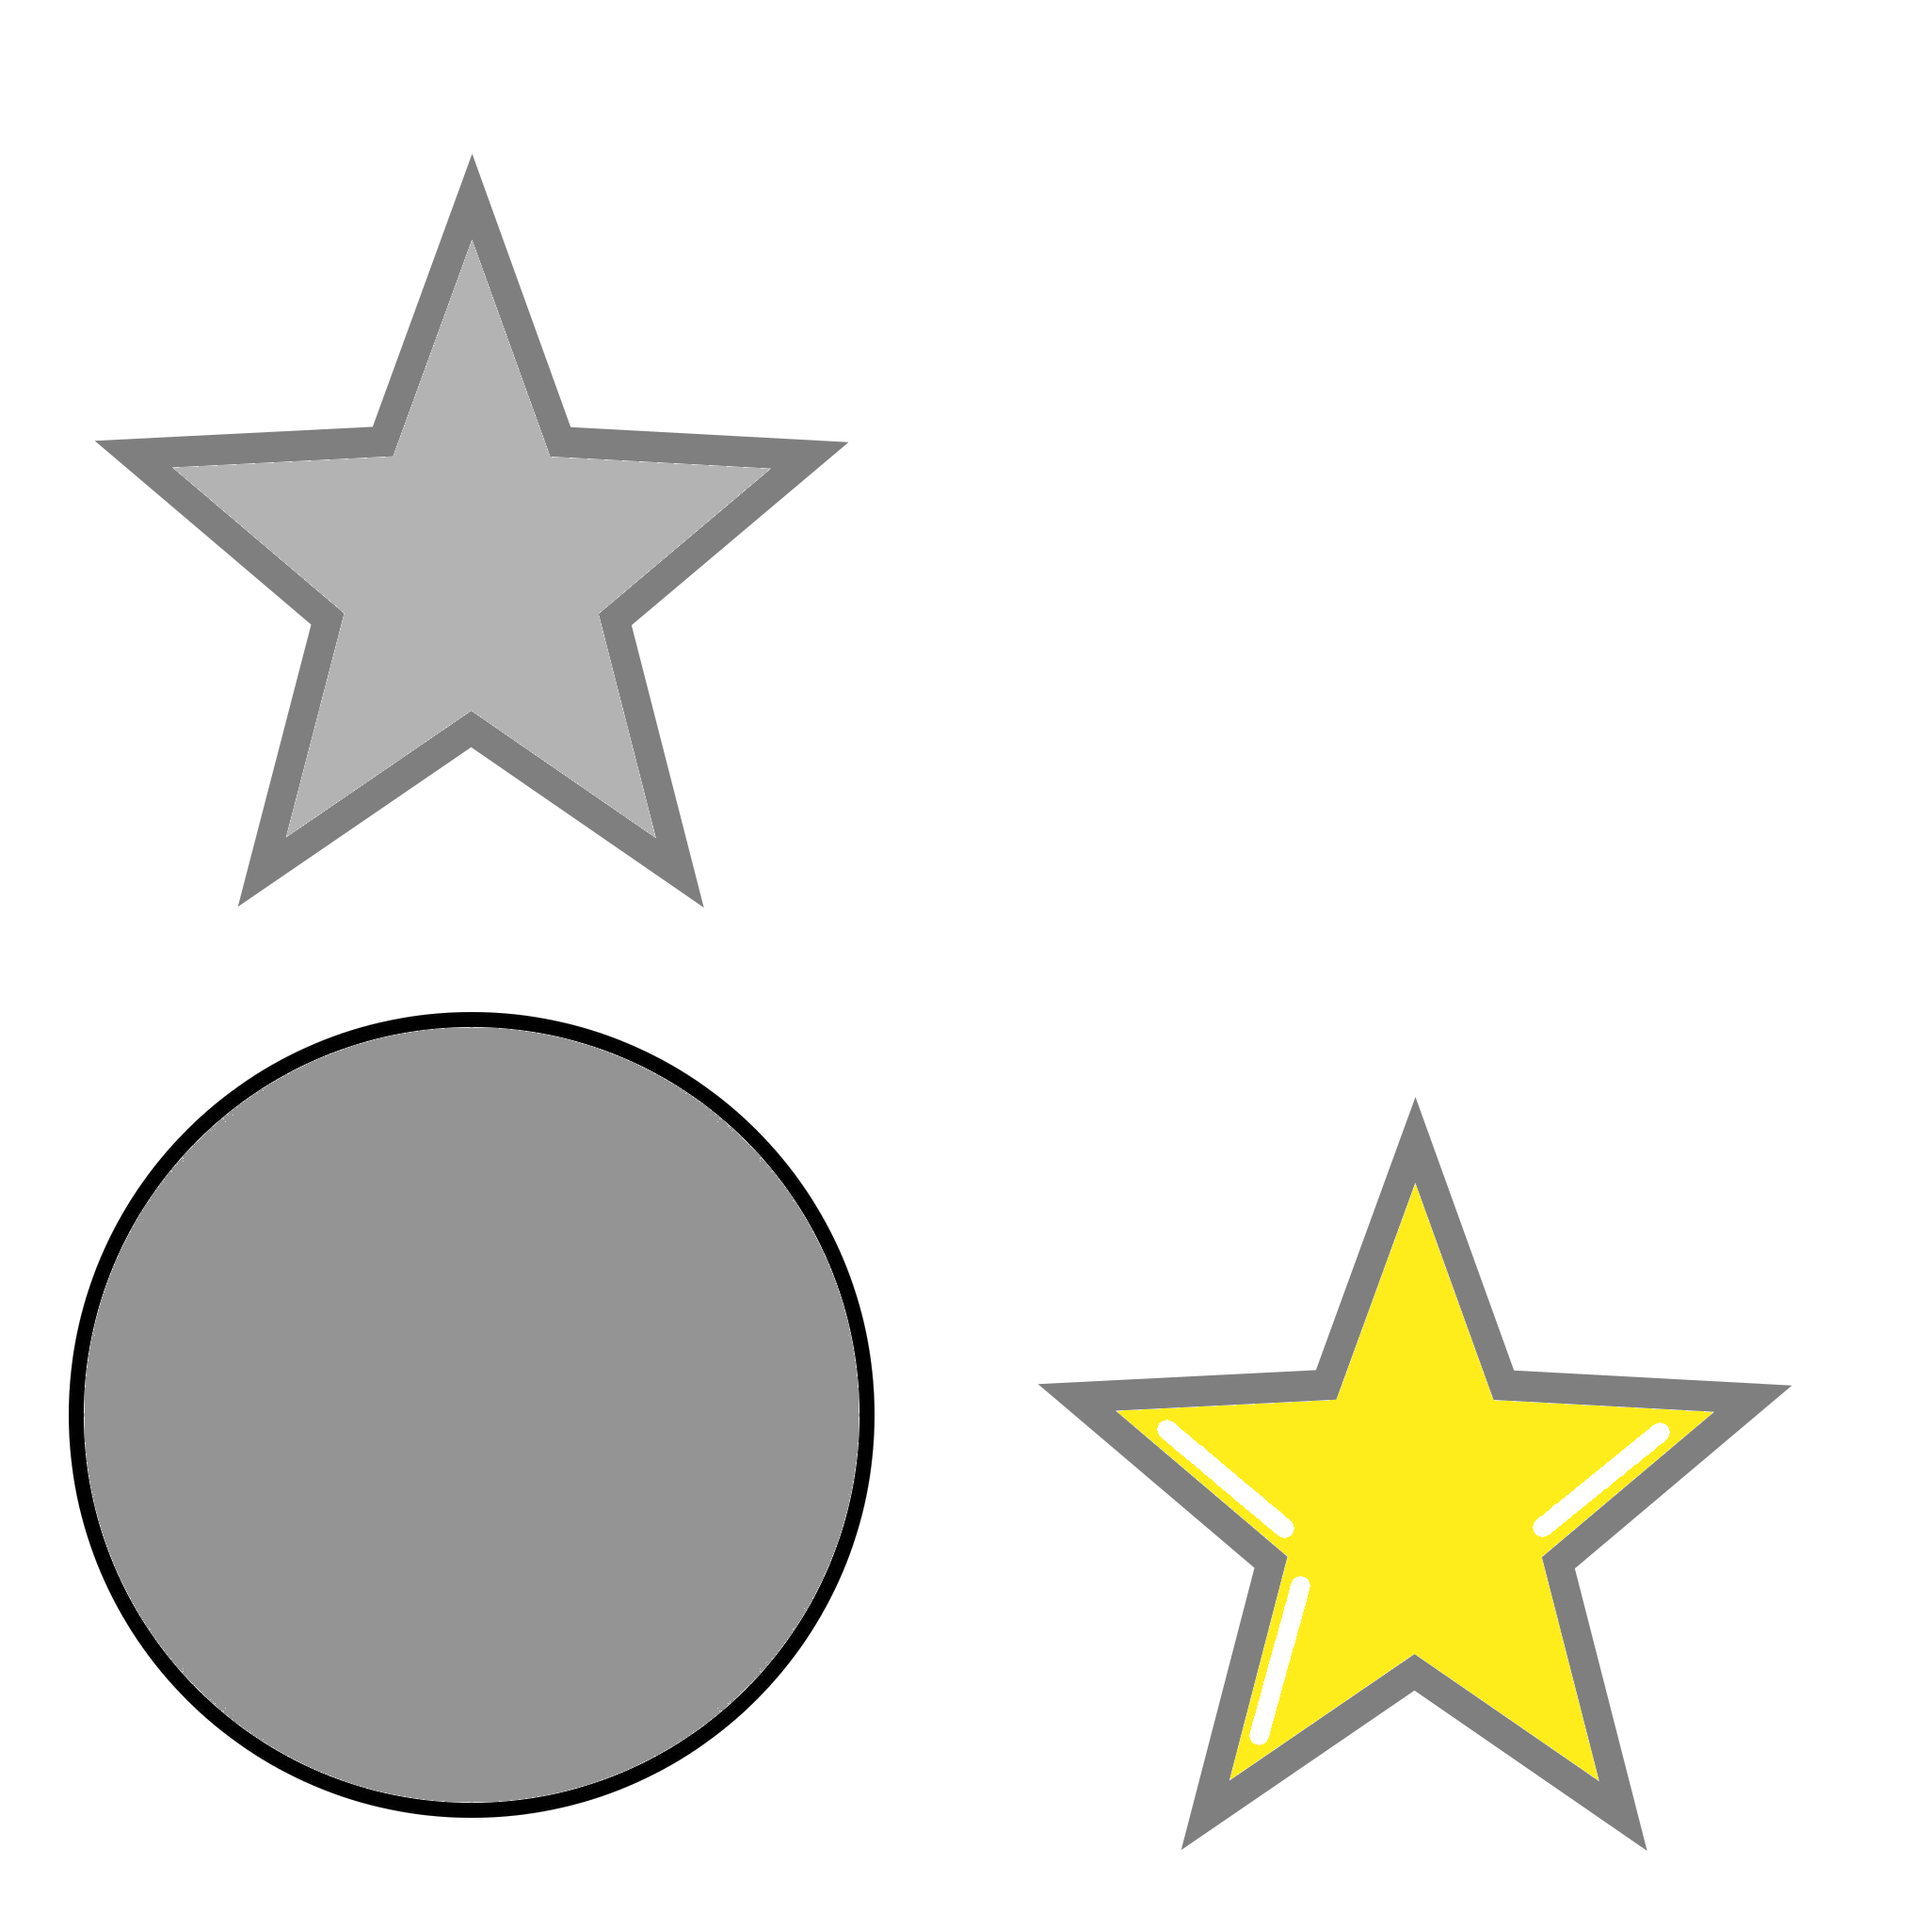
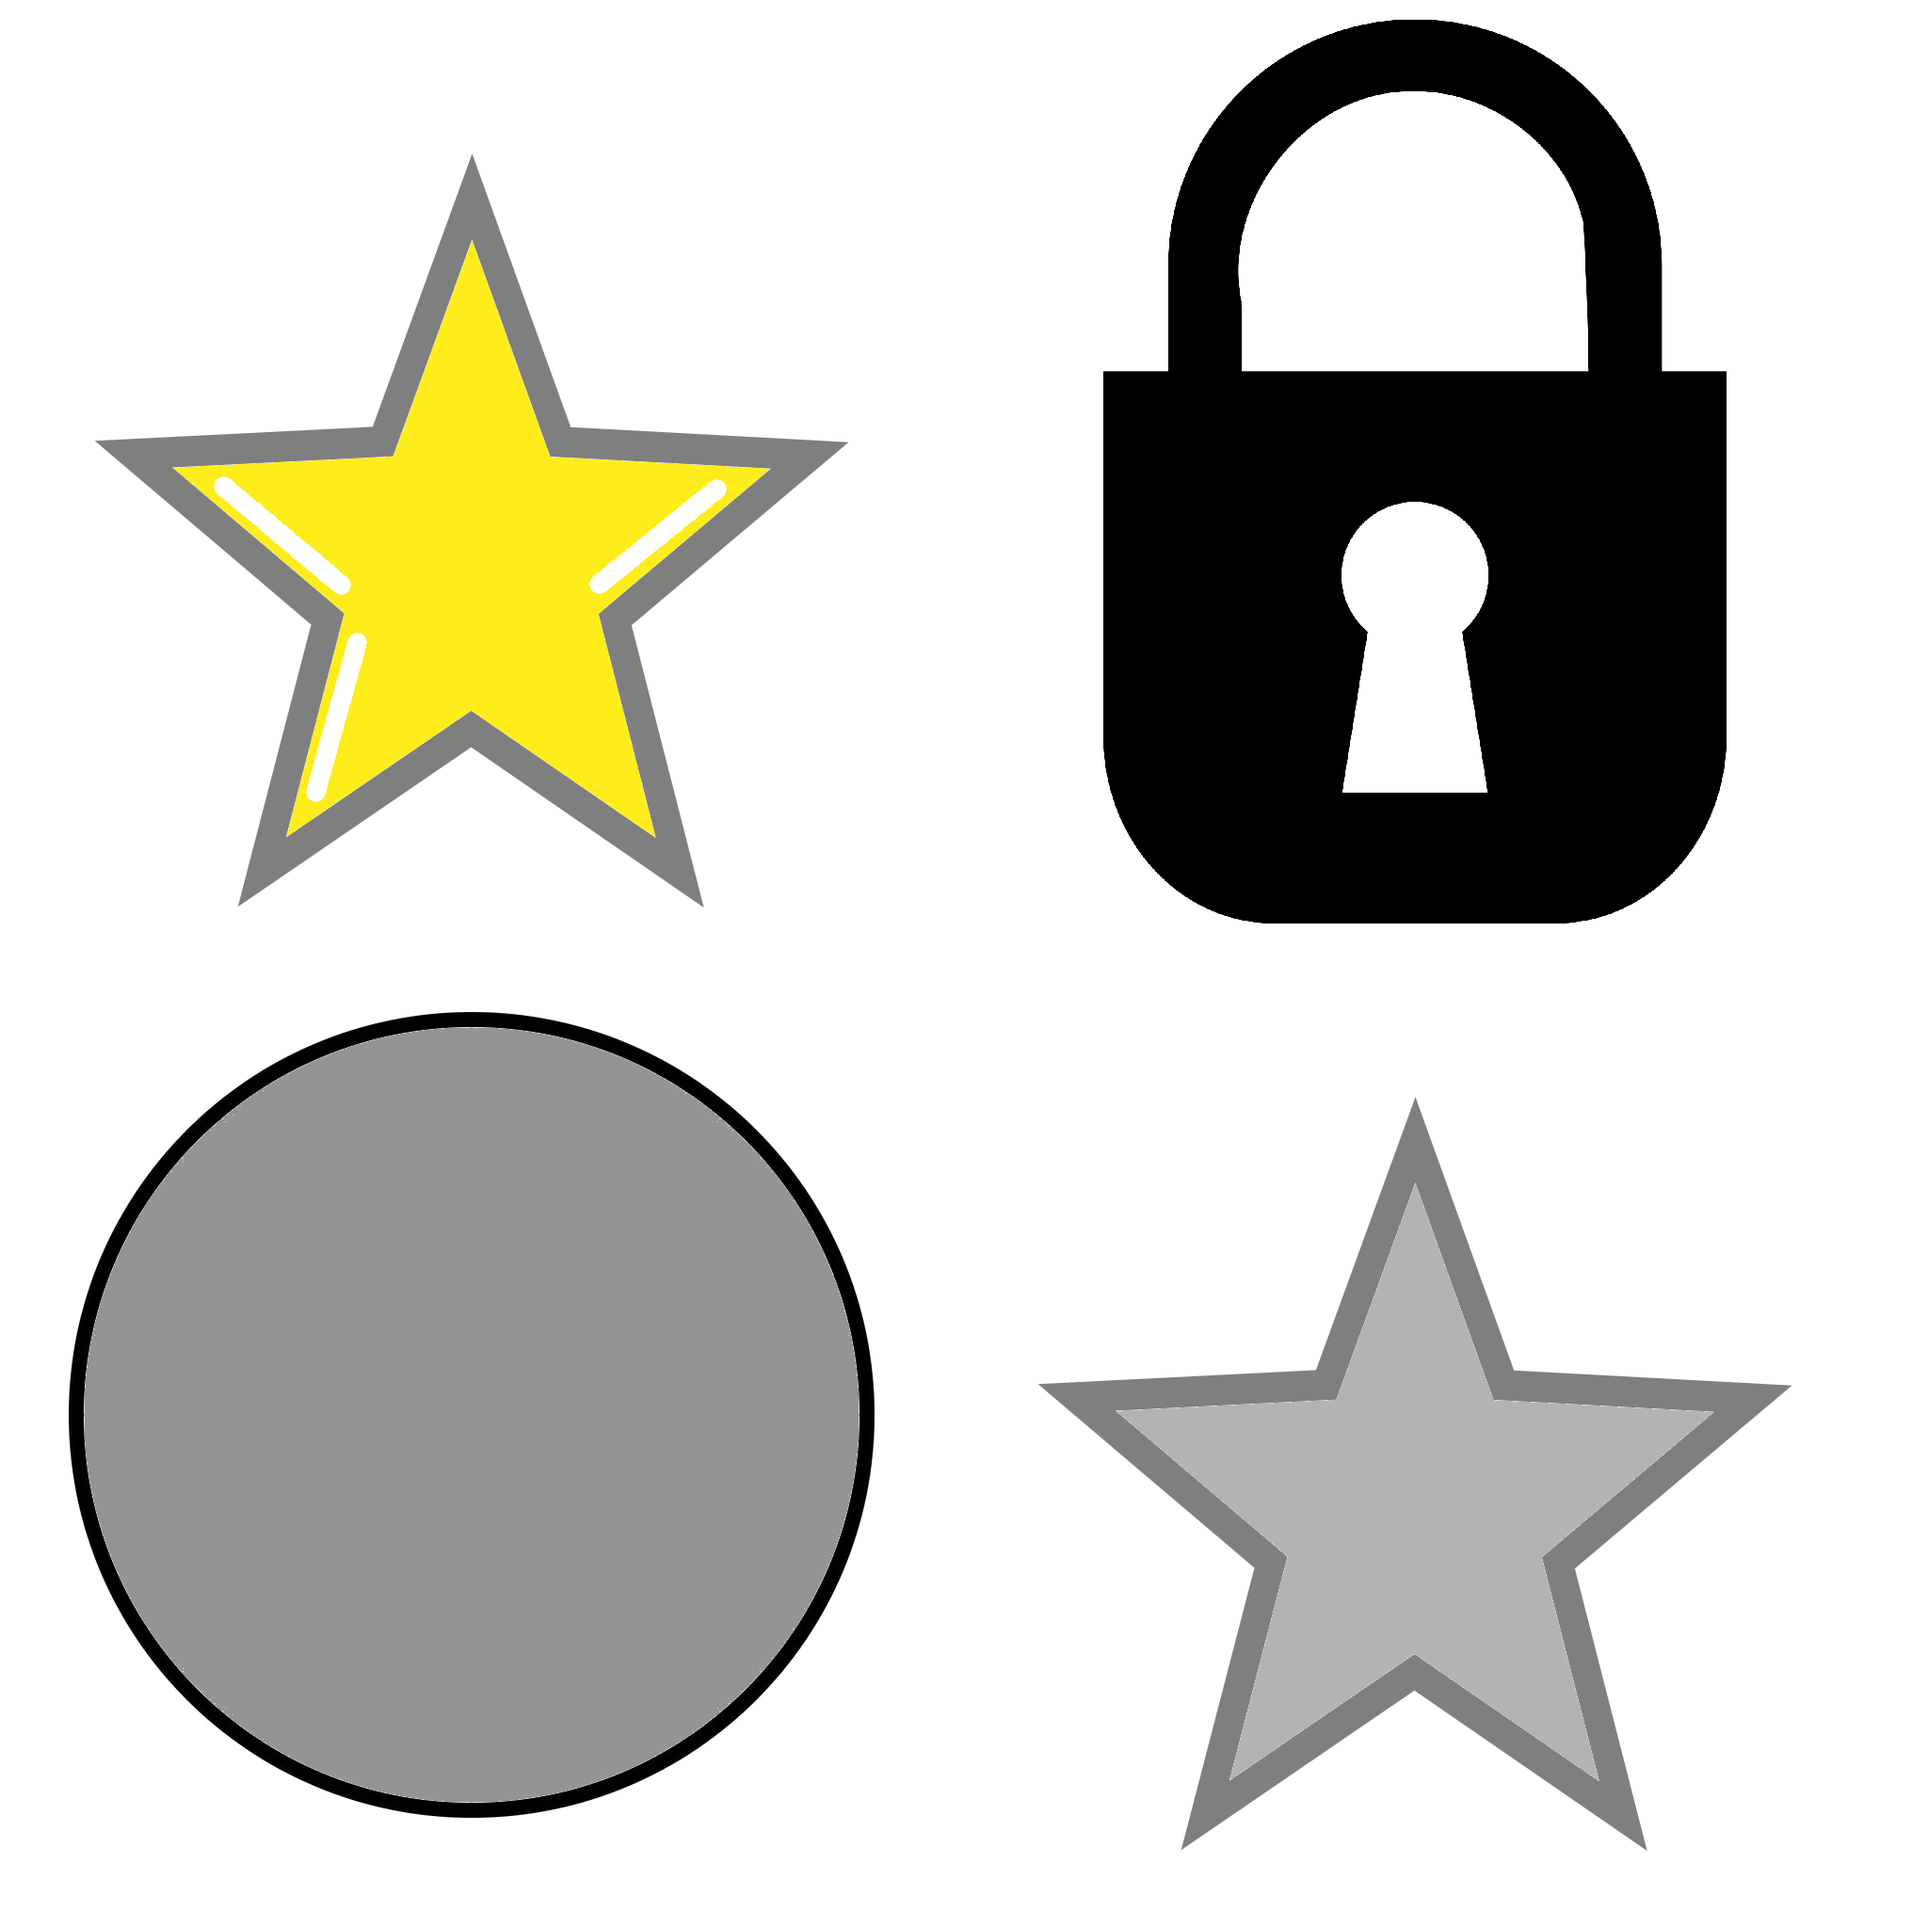
Greyed out level screen

Changed region(s): [[0.5625, 0.0, 0.9062, 0.5], [0.5938, 0.625, 0.875, 0.9375], [0.0938, 0.125, 0.4062, 0.4375]]

diff --git a/core/src/com/spill/salmonladder/ScreenLevelSelect.java b/core/src/com/spill/salmonladder/ScreenLevelSelect.java
@@ -63,7 +63,11 @@ public class ScreenLevelSelect implements Screen {
         // GET THE SKIN TEXTURES FOR THE BUTTON
         skin = SalmonLadderConstants.SKIN;
 
-        skin.add("Level", skin.newDrawable("ButtonLevel", new Color(205, 205, 205, 1)), Drawable.class);
+        skin.add("Level-Locked", skin.newDrawable("ButtonLevel", new Color(150 / 255f, 150 / 255f, 150 / 255f, 1)), Drawable.class);
+
+        skin.add("Level-Unlocked", skin.newDrawable("ButtonLevel", new Color(245 / 255f, 245 / 255f, 245 / 255f, 1)), Drawable.class);
+
+        skin.add("Level-Padlock", skin.newDrawable("ImagePadlock", Color.BLACK), Drawable.class);
 
         skin.add("Star-Filled", skin.newDrawable("ImageStar", Color.YELLOW), Drawable.class);
         
@@ -194,7 +198,15 @@ public class ScreenLevelSelect implements Screen {
         label.setAlignment(Align.center);
 
         // PUT THE LABEL INSIDE THE BUTTON
-        button.stack(new Image(skin.getDrawable("Level")), label).expand().fill();
+        if (SalmonLadderConstants.STARS.getStatus(level).equals("Unlocked")) {
+
+            button.stack(new Image(skin.getDrawable("Level-Unlocked")), label).expand().fill();
+
+        } else {
+
+            button.stack(new Image(skin.getDrawable("Level-Locked")), new Image(skin.getDrawable("Level-Padlock"))).expand().fill();
+
+        }
 
         int stars = SalmonLadderConstants.STARS.getStars(level);
 

diff --git a/core/src/com/spill/salmonladder/FishSprite.java b/core/src/com/spill/salmonladder/FishSprite.java
@@ -591,26 +591,7 @@ public class FishSprite extends Sprite implements GestureDetector.GestureListene
 
             if (CheckCollisionIn() && CheckCollisionOut()) {
 
-                if (SalmonLadderConstants.SETTINGS.isSoundEnabled()) {
-
-                    if (random.nextInt(100) < 20) {
-
-                        if (random.nextInt(2) == 0) {
-
-                            SalmonLadderConstants.SOUND_WATER_1.play();
-
-                        } else {
-
-                            SalmonLadderConstants.SOUND_WATER_2.play();
-
-                        }
-
-                    }
-
-                }
-
                 HUDTable.setMoves(HUDTable.getMoves() + 1);
-
 
                 if (map.getCell((int) (getX() / SalmonLadderConstants.PIXEL_PER_METER), (int) (getY() / SalmonLadderConstants.PIXEL_PER_METER)).getTile().getProperties().get("Name", String.class).substring(0, 5).equals("Event")) {
 

diff --git a/core/src/com/spill/salmonladder/LevelParser.java b/core/src/com/spill/salmonladder/LevelParser.java
@@ -512,7 +512,5 @@ public class LevelParser implements Screen {
 
 /* TODO:
  * Final Win Screen
- * Grey Out Locked Levels
  * Levels
- * Remove sound from fish sprite
  * */
